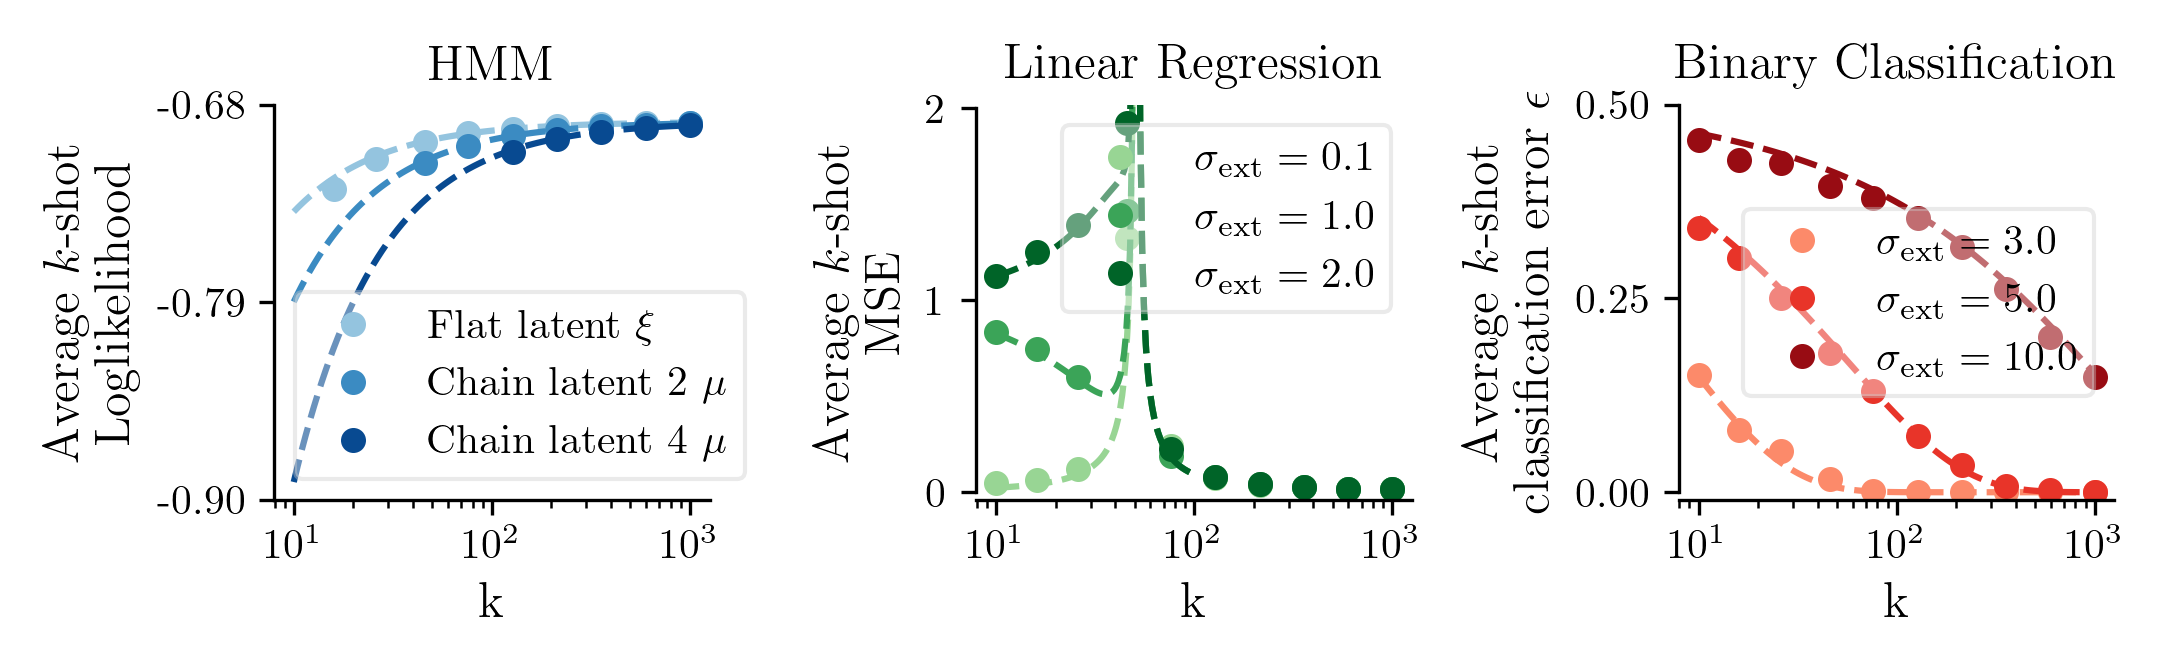
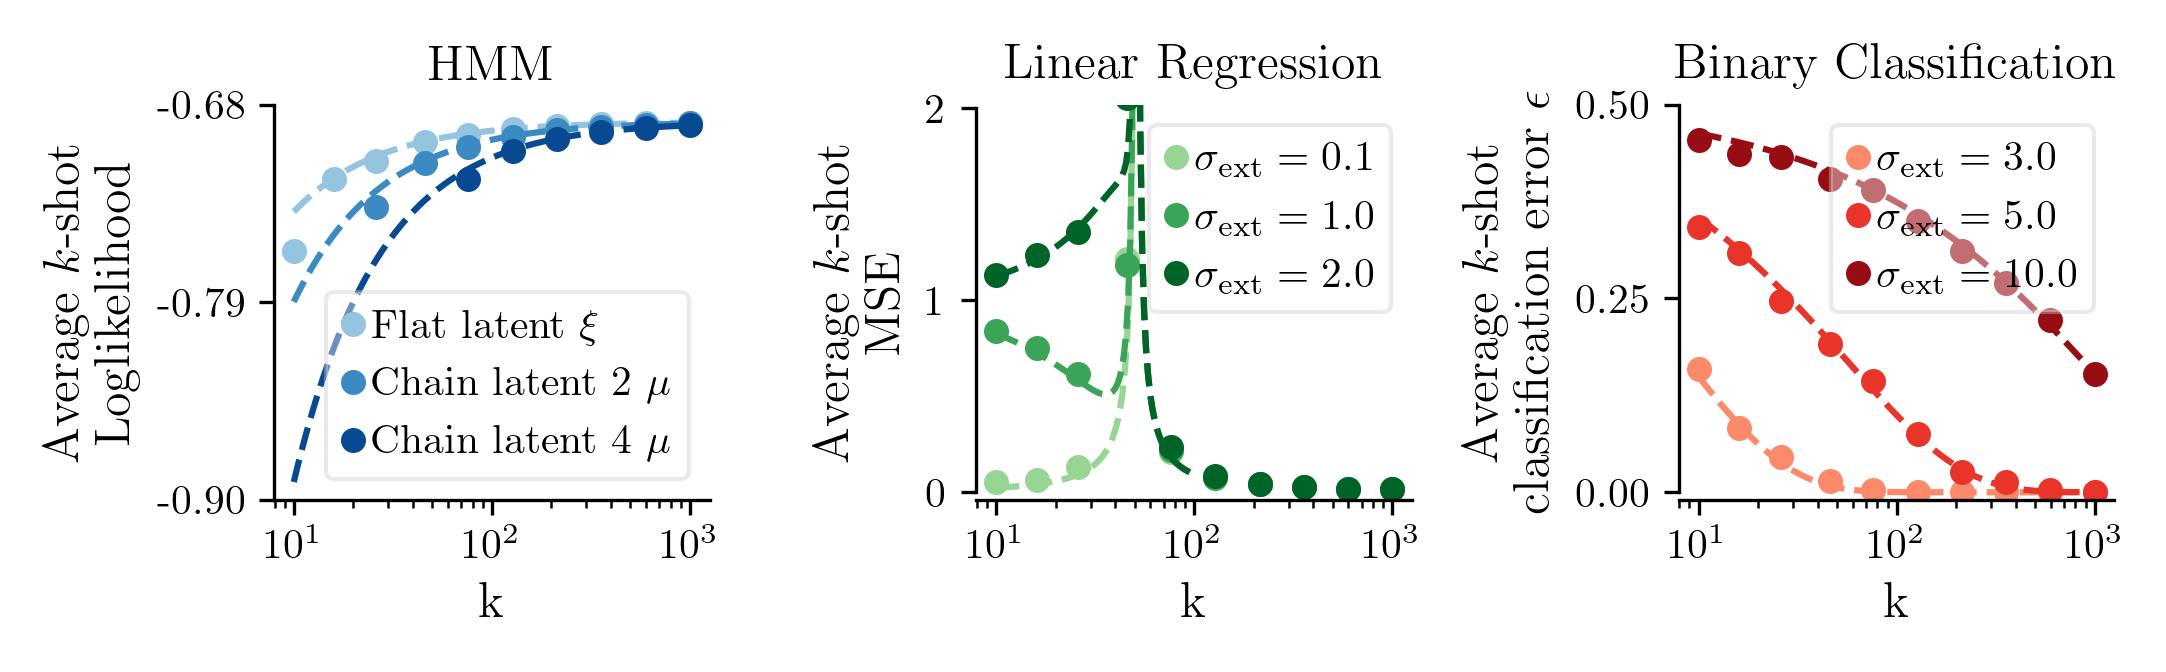
updated readme

diff --git a/fewshot_analytical.py b/fewshot_analytical.py
@@ -400,7 +400,7 @@ for config_idx, config in enumerate(configs):
     y_min, y_max = ax.get_ylim()
     ax.set_yticks([y_min, (y_min + y_max) / 2, y_max])
     
-    ax.legend(framealpha=0.4, fontsize=10)
+    ax.legend(framealpha=0.4, fontsize=10, handletextpad=0.2)
     ax.set_xlabel('k', fontsize=12)
     if config.ylabel is not None:
         ax.set_ylabel(config.ylabel, fontsize=12)
